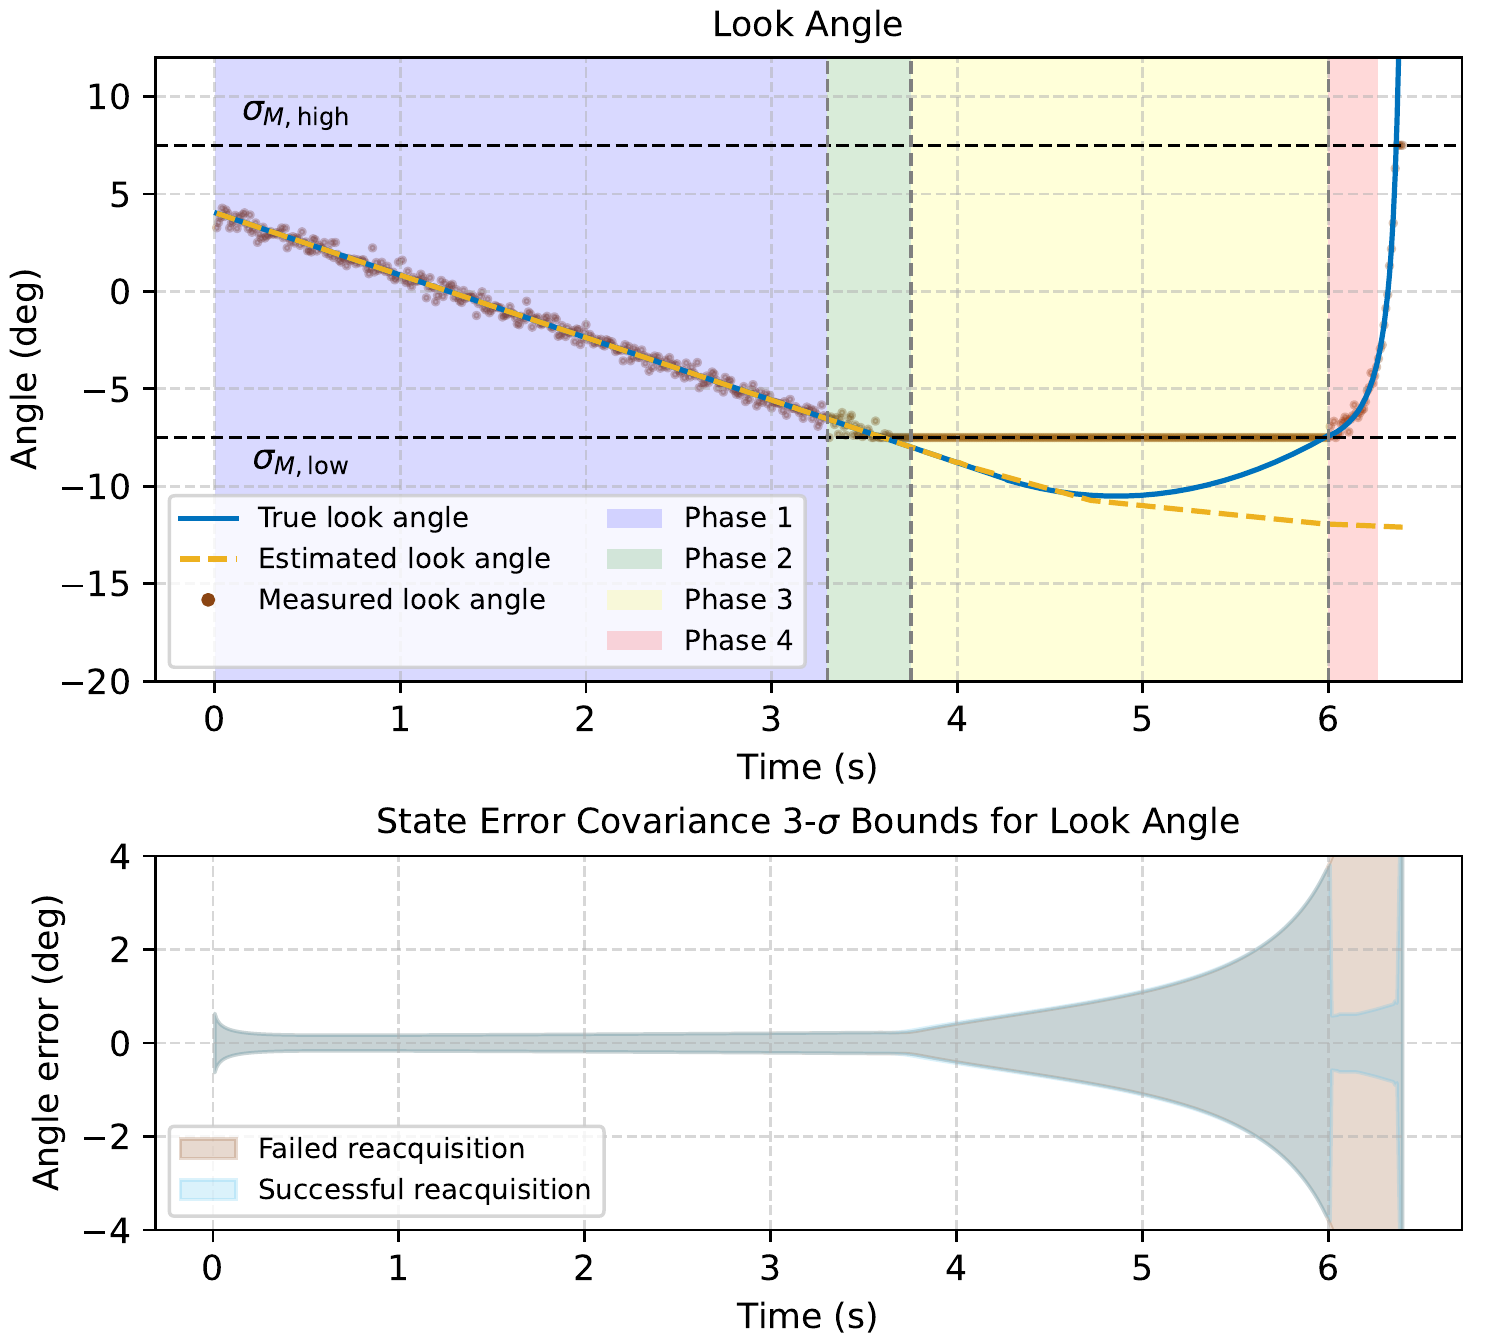
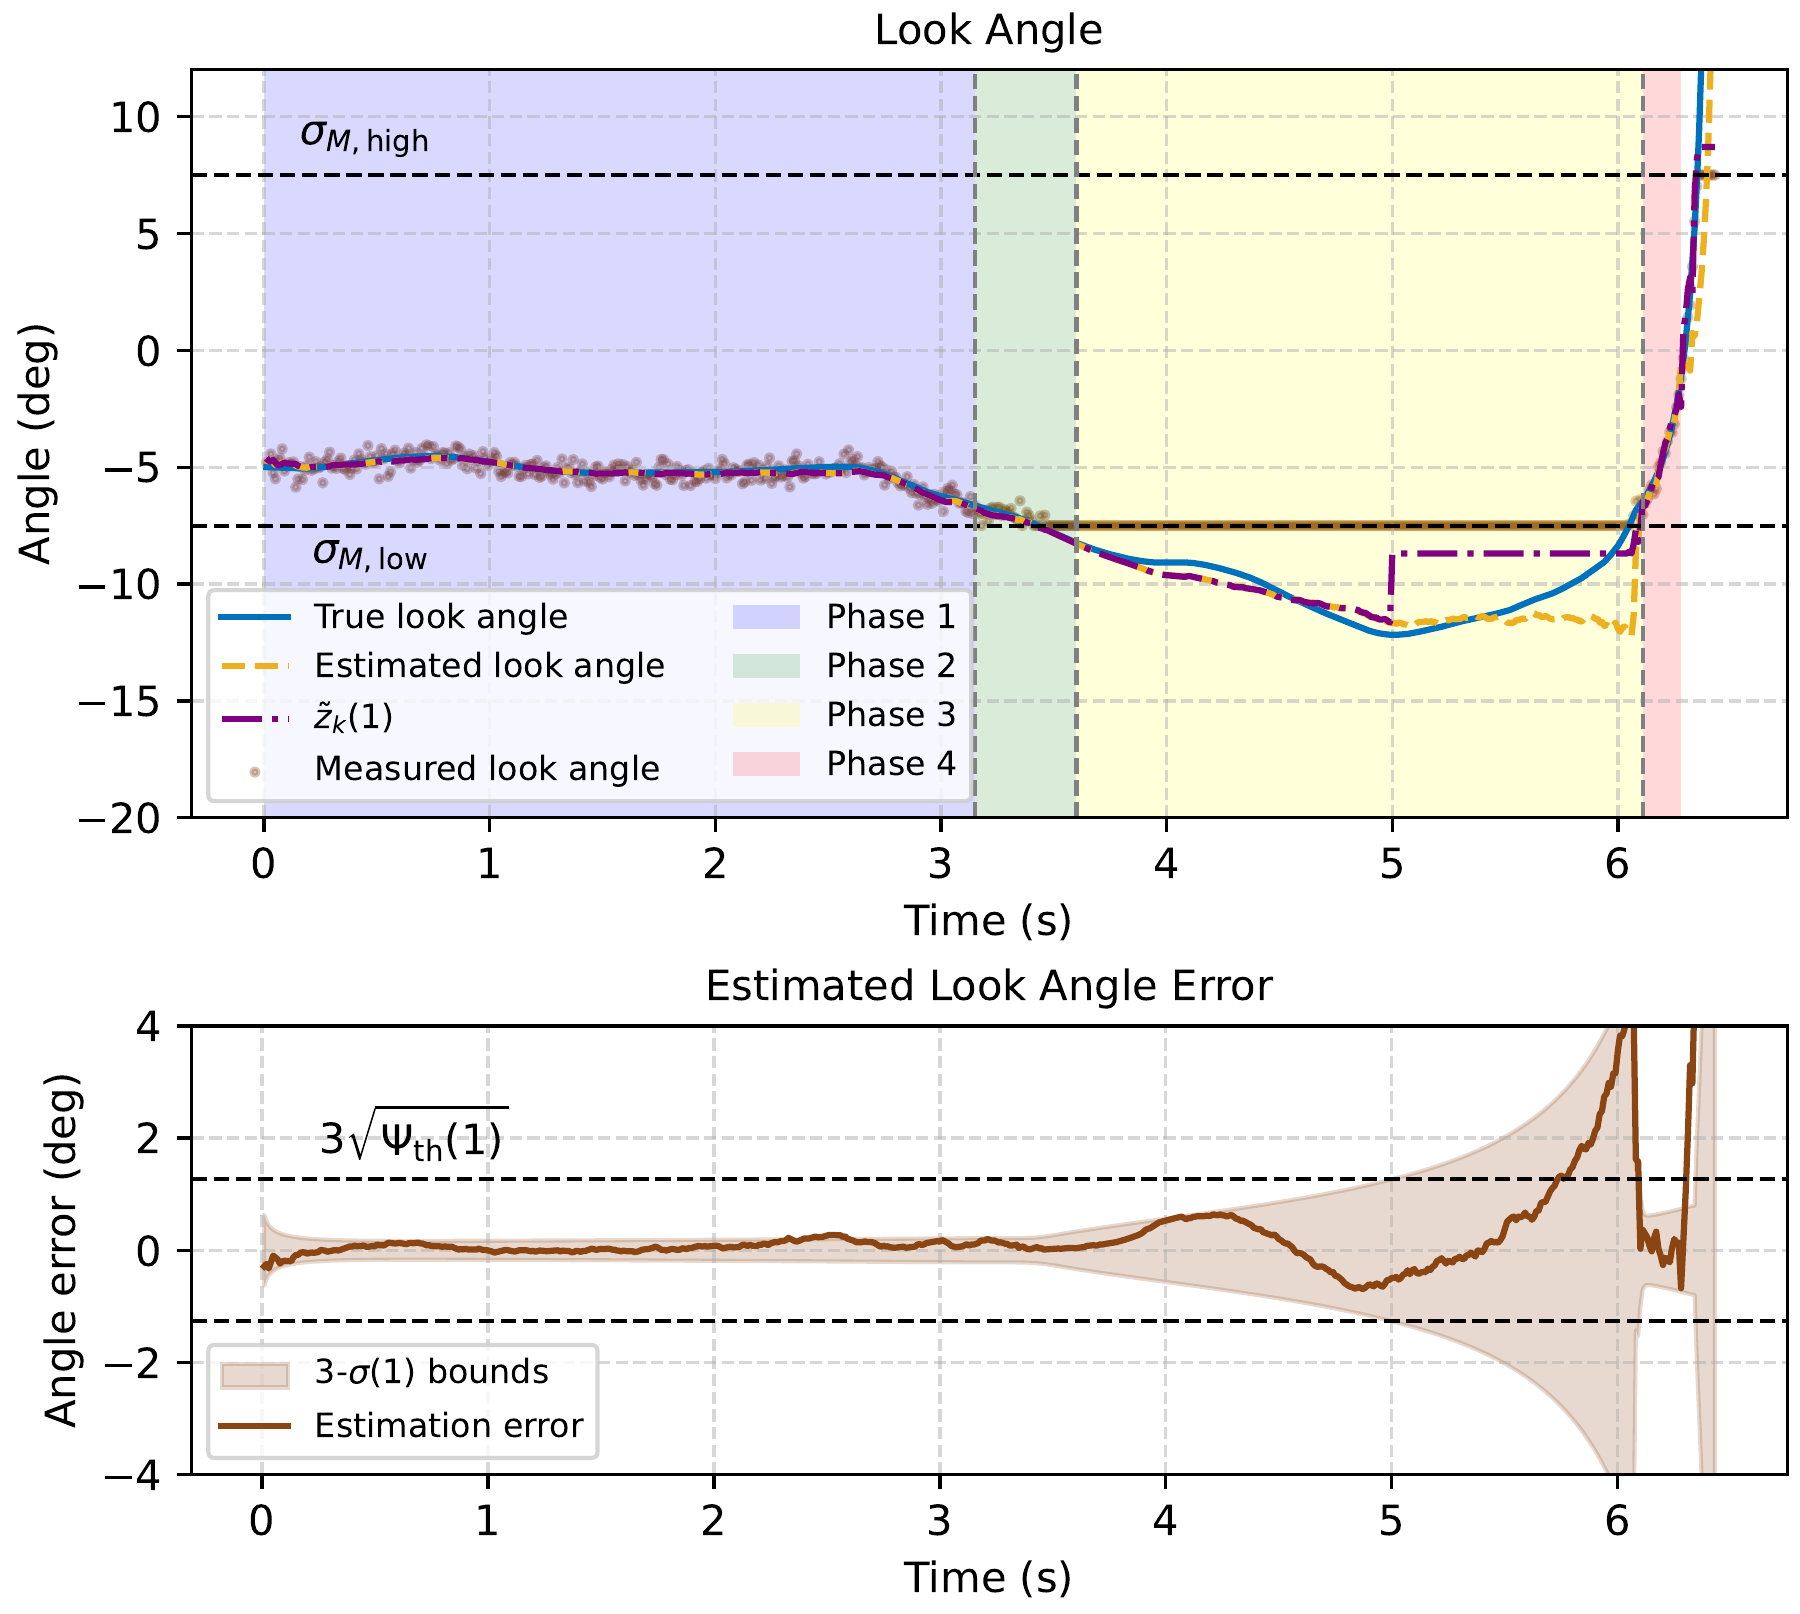
Replace TKF research figure with updated Fig. 7

diff --git a/index.html b/index.html
@@ -59,7 +59,7 @@
           <article class="publication" data-type="journal" data-image="publications/journal/shaping-filter-ekf/figure.png" data-image-alt="Half-vehicle railway model showing the bogie, wheelsets, suspension, and lateral and yaw coordinates."><div class="publication-meta"><span class="pub-year">2026</span><span class="status-tag status-revision">Under revision</span></div><div class="publication-body"><h3><a href="https://doi.org/10.5281/zenodo.21482512" target="_blank" rel="noopener">Shaping-Filter Augmented Constrained EKF for Equivalent Conicity Estimation of Railway Vehicles</a></h3><p class="authors"><strong>Sohyun Kim</strong>, Geunwoo Lee, and Hyo-Sang Shin</p><p class="venue">Zenodo <span>· July 2026</span></p></div></article>
           <article class="publication" data-type="journal"><div class="publication-meta"><span class="pub-year">2026</span><span class="status-tag status-preprint">Preprint</span></div><div class="publication-body"><h3><a href="https://doi.org/10.2139/ssrn.7111691" target="_blank" rel="noopener">Aerial Threat Assessment: A Comprehensive Review of Methodologies, Attributes, and a Novel Validation Framework</a></h3><p class="authors"><strong>Sohyun Kim</strong>, Sukkeun Kim, Jik Hur, and Hyo-Sang Shin</p><p class="venue">SSRN <span>· July 2026</span></p></div></article>
           <article class="publication" data-type="journal" data-image="publications/journal/bayesian-cann/figure.png?v=b29a927" data-image-alt="Reaction component of the two-dimensional Bayesian continuous attractor neural network."><div class="publication-meta"><span class="pub-year">2026</span><span class="status-tag status-revision">Under revision</span></div><div class="publication-body"><h3><a href="https://doi.org/10.21203/rs.3.rs-9897709/v1" target="_blank" rel="noopener">A Two-Dimensional Bayesian Continuous Attractor Neural Network for Robust Spatial State Estimation</a></h3><p class="authors"><strong>Sohyun Kim</strong> and Hyo-Sang Shin</p><p class="venue">Research Square <span>· June 2026</span></p></div></article>
-          <article class="publication" data-type="journal" data-image="publications/journal/adaptive-tobit-kalman-filter/figure.png" data-image-alt="Look-angle tracking and state-error covariance bounds across four censoring phases."><div class="publication-meta"><span class="pub-year">2025</span><span class="status-tag status-published">Published</span></div><div class="publication-body"><h3><a href="https://doi.org/10.1016/j.ast.2025.110263" target="_blank" rel="noopener">Adaptive censoring-probability-based Tobit Kalman filter for tracking maneuvering targets</a></h3><p class="authors"><strong>Sohyun Kim</strong>, Hyungbin Kim, and Seokwon Lee</p><p class="venue">Aerospace Science and Technology <span>· 163:110263 · 2025</span></p></div></article>
+          <article class="publication" data-type="journal" data-image="publications/journal/adaptive-tobit-kalman-filter/figure.png?v=fig7-20261025" data-image-alt="Look-angle tracking and estimated look-angle error."><div class="publication-meta"><span class="pub-year">2025</span><span class="status-tag status-published">Published</span></div><div class="publication-body"><h3><a href="https://doi.org/10.1016/j.ast.2025.110263" target="_blank" rel="noopener">Adaptive censoring-probability-based Tobit Kalman filter for tracking maneuvering targets</a></h3><p class="authors"><strong>Sohyun Kim</strong>, Hyungbin Kim, and Seokwon Lee</p><p class="venue">Aerospace Science and Technology <span>· 163:110263 · 2025</span></p></div></article>
           <article class="publication" data-type="journal" data-image="publications/journal/lstm-kalman-filter/figure.png" data-image-alt="Euclidean error comparison of Kalman filtering methods and the KF plus AI estimate."><div class="publication-meta"><span class="pub-year">2025</span><span class="status-tag status-published">Published</span></div><div class="publication-body"><h3><a href="https://doi.org/10.5302/J.ICROS.2025.24.0143" target="_blank" rel="noopener">LSTM-based Kalman Filter Error Compensation for Enhanced Moving Object Tracking</a></h3><p class="authors"><strong>Sohyun Kim</strong>, Jaehoon Choi, Dayeon Jeong, and Seokwon Lee</p><p class="venue">Journal of Institute of Control, Robotics and Systems <span>· 31(1):68–76 · 2025</span></p></div></article>
         </div>
         <div class="publication-group" id="conference-papers">
